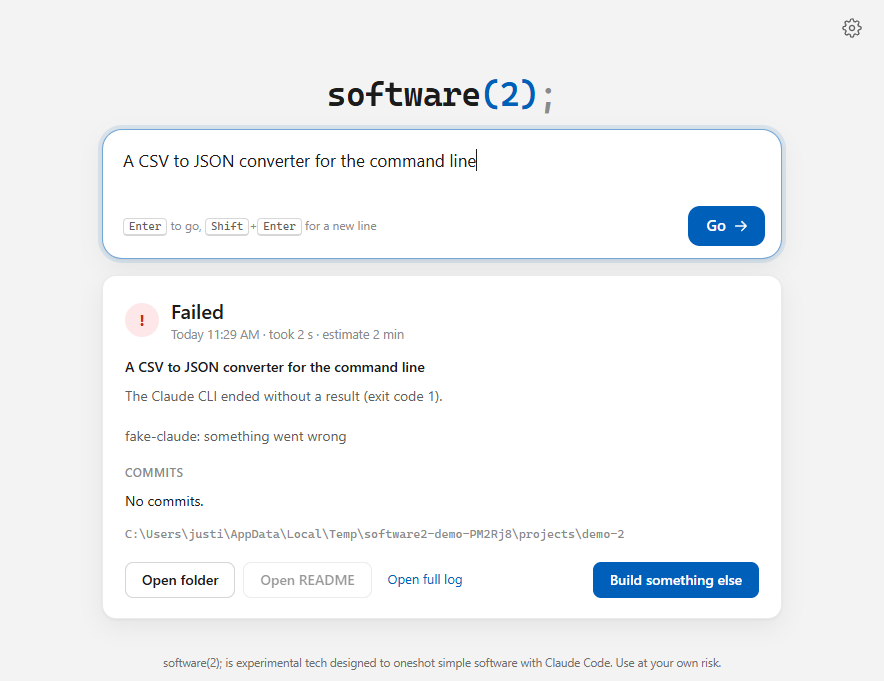
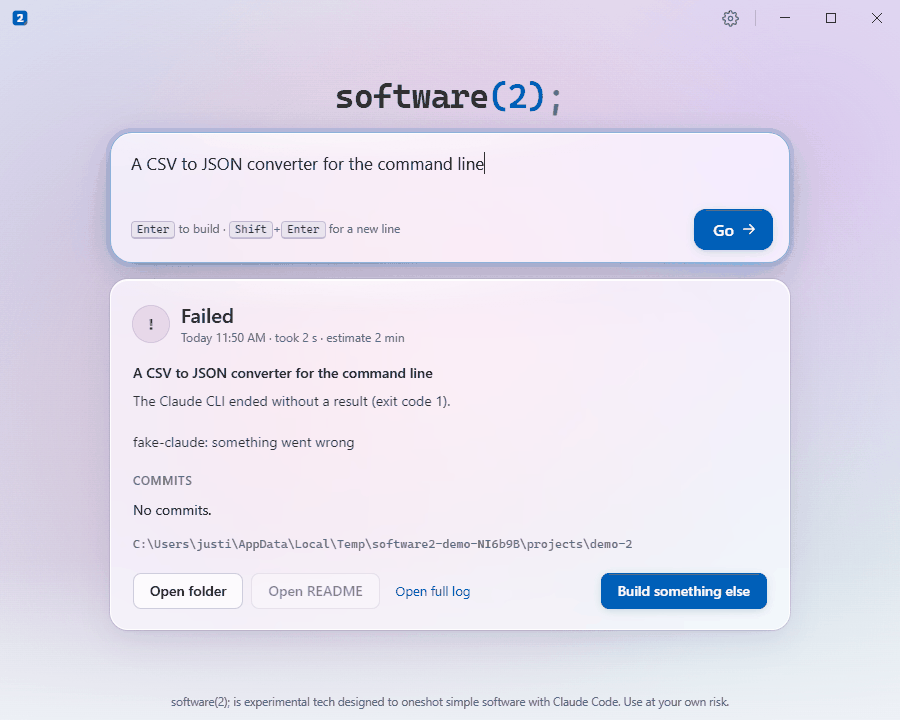
README and notes for the glass look; refreshed screenshots

diff --git a/README.md b/README.md
@@ -33,7 +33,15 @@ for as long as the time cap in Settings, 30 minutes by default.
    **Build something else**. There is no history of past builds: their folders stay
    where you put them.
 
-The window follows the Windows light or dark theme.
+The window follows the Windows light or dark theme. Its cards are frosted glass over a
+slowly drifting colour background that reacts to what is going on: calm when idle,
+livelier while estimating and building, a green bloom when a build is done and a muted
+red when it failed or was stopped. With Windows' "Show animations" turned off
+(prefers-reduced-motion) the background stands still. It pauses while the window is
+minimised; idle, it uses about a tenth of one CPU core.
+
+The window has its own slim title bar (drag it, double-click to maximise, snap works).
+**Escape** closes Settings and cancels the estimate card.
 
 | Estimate | Building |
 | --- | --- |
@@ -116,8 +124,10 @@ stand-in for the CLI, never the real one.
 Off by default. `SOFTWARE2_DEMO=1` runs the window against `test/fake-claude.mjs`, with
 a throwaway data folder in `%TEMP%\software2-demo-*` (your real settings are not
 touched) and no folder dialog. `SOFTWARE2_SHOTS=<folder>` also walks through every
-state (empty, estimating, confirm, building, done, Settings, a failed build) in light and dark,
-saves a PNG of each into that folder and quits. In Git Bash, after `npm run build`:
+state (empty, estimating, confirm, building, done, Settings, a failed build, the smallest
+window, reduced motion) in light and dark, saves a PNG of each into that folder, writes
+the idle CPU use (window shown, minimised, reduced motion) to `cpu-idle.txt` there and
+quits. Page errors and warnings are printed in the terminal. In Git Bash, after `npm run build`:
 
 ```
 SOFTWARE2_SHOTS=shots node_modules/electron/dist/electron.exe .
@@ -154,11 +164,14 @@ src/main/runlog.ts      the full log file per run (userData\logs)
 src/main/demo.ts        demo mode and the screenshot walk-through (off by default)
 prompts/build.md        the build prompt (editable)
 src/preload/preload.ts  the small window.api the page gets
-src/renderer/           index.html, styles.css, renderer.ts (plain script, no framework)
+src/renderer/           index.html, styles.css, renderer.ts (plain script, no framework),
+                        background.ts (the animated background)
 src/api.d.ts            types for window.api
 test/fake-claude.mjs    fake claude CLI for tests
 test/*.test.mjs         tests (run against the compiled dist/)
 docs/screenshots/       screenshots from the demo mode
+assets/                 the app icon: icon.svg, rendered to icon.png and icon.ico
+scripts/make-icon.mjs   renders the icon (run it with Electron, see the file)
 ```
 
 ## Build a Windows exe (later)

diff --git a/CLAUDE.md b/CLAUDE.md
@@ -25,4 +25,8 @@ Electron + TypeScript, plain HTML/CSS renderer, Windows only. See README.md for 
 - The window has no log view: the status line sentence is `ParsedLine.activity` (`src/main/stream.ts`) sent via `onActivity`, and the full log goes to `userData\logs\run-*.log` (`src/main/runlog.ts`). The renderer maps flow.ts's `setStatus` words in `onStatus()`, so rewording those needs the renderer too.
 - Check UI changes visually with `SOFTWARE2_SHOTS=<dir>` (demo mode: fake CLI, temp userData, every state in light and dark), then Read the PNGs. In Electron, `rmSync` fails on git's read-only object files; clear the read-only bit first.
 - No build history, on purpose (the user removed it). The result card's Open folder/README/log act on `lastBuild` in main.ts; the page never passes a path.
-- The disclaimer `<footer class="disclaimer">` is the body column's last flex item, not `position: fixed`, so `main` scrolls above it and nothing overlaps; its `--text-faint` is picked for ~4.5:1 on `--bg`, so recheck it if the background changes. Shots mode also takes `narrow-*` shots at the 600x480 minimum.
+- The disclaimer `<footer class="disclaimer">` is the body column's last flex item, not `position: fixed`, so `main` scrolls above it and nothing overlaps; its `--text-faint` is picked for 4.7:1 or more on the animated background's bottom edge (background.ts fades it back to `--bg`), so recheck it if the background changes. Shots mode also takes `narrow-*` shots at the 600x480 minimum.
+- The window is frameless (`frame: false`): the title bar is `.titlebar` in index.html, `-webkit-app-region: drag` on the bar and `no-drag` on its buttons; window buttons go through `window:control` IPC.
+- `src/renderer/background.ts` loads before renderer.ts and exposes one global, `backdrop` (`setScene`, `setProgress`); the renderer calls `setScene` at each state change. Keep the canvas at full size: a scaled-up small canvas shows the gradient dithering as a grid and costs no less.
+- Shots mode turns off Chromium's window-occlusion detection so the idle CPU figure is taken with the background running; use `cumulativeCPUUsage` for CPU (`percentCPUUsage` is divided by the core count).
+- After editing `assets/icon.svg`, rerun `node_modules/electron/dist/electron.exe scripts/make-icon.mjs` for the PNG/ICO.
